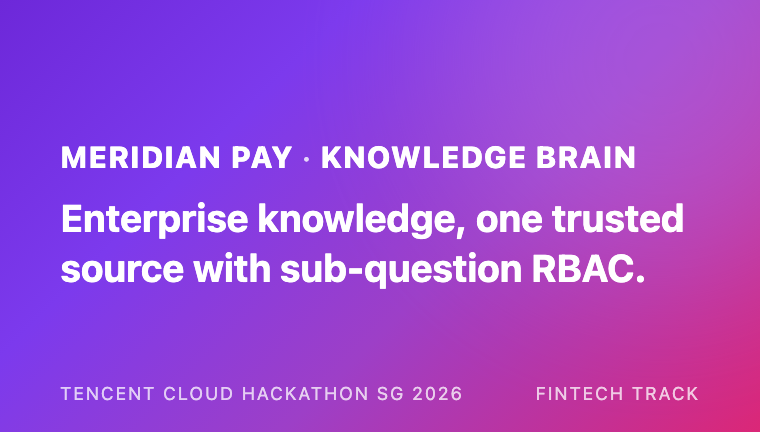
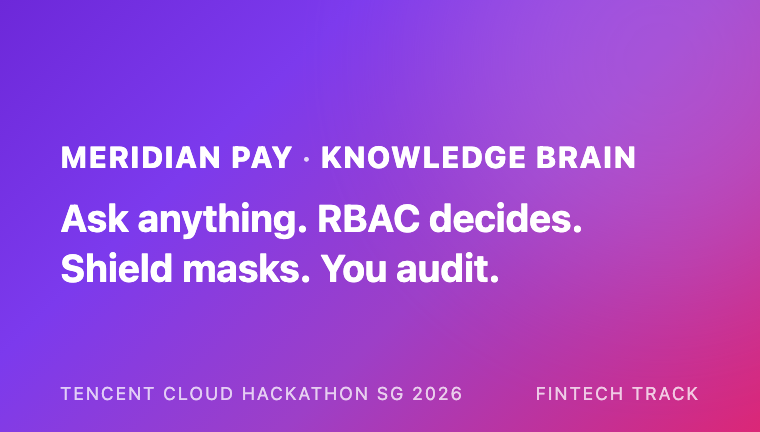
docs: measured idle latency is sub-second; cover uses the unified 8-word blurb

Changed region(s): [[0.0605, 0.4514, 0.9079, 0.662]]

diff --git a/README.md b/README.md
@@ -204,7 +204,7 @@ need-to-know 最小知情（进 LLM **之前**掩码 11 类标识，靠 Luhn / m
 
 ### 30 秒体验路径（live demo）
 
-> 线上地址：**https://meridian-pay-kb.onrender.com**（free 档约 15 分钟无流量会休眠，冷启动约 1 分钟；本地体验用 `http://localhost:8000`）
+> 线上地址：**https://meridian-pay-kb.onrender.com**（实测空闲 16 分钟后仍秒回；本地体验用 `http://localhost:8000`）
 
 | 步 | 操作 | 看到什么 |
 |---|---|---|
